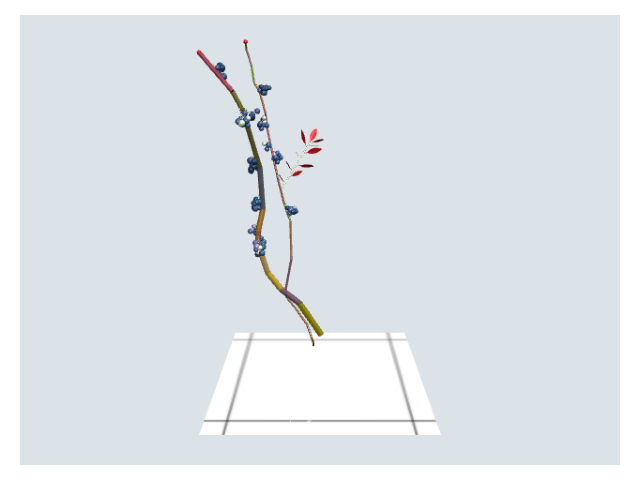
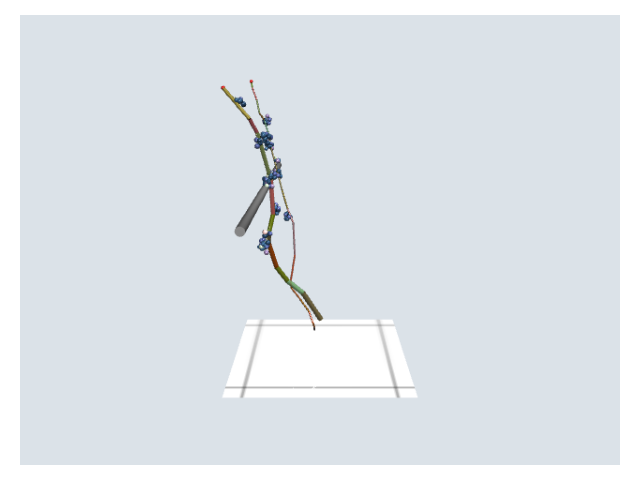
added a wire (and some friction for stability)

Changed region(s): [[0.3125, 0.0938, 0.6875, 0.9062]]

diff --git a/src/worldeditor.py b/src/worldeditor.py
@@ -1,0 +1,51 @@
+"""
+Functions to make edits to the environment, not the plant
+"""
+
+import mujoco
+import numpy as np
+import logging
+
+logger = logging.getLogger(__name__)
+
+def add_wire_at_height_and_depth(spec, height, depth, friction=0.5):
+    """
+    Add a wire at the specified height and depth in the environment.
+
+    Parameters:
+    - spec: The MuJoCo model specification to modify.
+    - height: The height at which to place the wire.
+    - depth: The depth at which to place the wire.
+    - friction: sliding friction coefficient of the wire. Must be > 0: the
+      cane geoms have zero friction, and a zero-friction contact under the
+      default pyramidal cone gives near-zero regularization (R ~ mu^2), which
+      makes the Newton solver produce NaN accelerations.
+
+    Assumptions:
+    - Wire is a cylinder that doesn't have any bends or curves.
+    - Wire is oriented parallel to y axis.
+    """
+    # Implementation for adding the wire goes here
+    logger.info(f"Adding wire at height {height} and depth {depth}")
+    world_body = None
+    for body in spec.bodies:
+        if body.name == "world":
+            world_body = body
+            break
+    if world_body is None:
+        raise ValueError("World body not found in the specification.")
+
+    wire_body = world_body.add_body(
+        name=f"wire_{height}_{depth}",
+        pos=[depth, 0, height]
+    )
+    wire_body.add_geom(
+        name=f"wire_geom_{height}_{depth}",
+        type=mujoco.mjtGeom.mjGEOM_CYLINDER,
+        size=[0.01, 0.5, 0],  # radius, half-length
+        pos=[0, 0, 0],
+        quat=[np.sqrt(0.5), np.sqrt(0.5), 0, 0],  # rotate 90 deg about x: cylinder z-axis -> world y-axis
+        # contact friction = max of the two geoms, so this overrides the canes' zero friction
+        friction=[friction, 0.005, 0.0001],
+    )
+    return spec

diff --git a/src/bushSim.py b/src/bushSim.py
@@ -42,6 +42,7 @@ import caneEditor
 import splineconverter
 from caneEditor import CaneEditor
 from caneSimulator import BranchSim, flip_segs_from_curve, get_midpoints
+import worldeditor
 
 def build_bush(editor, branch_origins_df, bush_num):
     B = BranchSim(bush_num, 1, editor=editor, xy=branch_origins_df[bush_num][1])
@@ -145,9 +146,13 @@ if __name__ == "__main__":
         logger.info(f"Building bush with average berry mass {avg_mass*1000:.2f} g")
         editor.BerryGen.change_berry_mass(avg_mass)  # example of changing the default berry mass before loading the config
         load_berry_config('bush_1_config.json')
-        editor.add_leaf_cluster_to_branch_at_height(height=0.45, branch_id="B1_B1", tilt=45.0, num_leaves=10)
-        editor.add_leaf_cluster_to_branch_at_height(height=0.6, branch_id="B1_B1", tilt=55.0, num_leaves=6)   
+        # editor.add_leaf_cluster_to_branch_at_height(height=0.45, branch_id="B1_B1", tilt=45.0, num_leaves=10)
+        # editor.add_leaf_cluster_to_branch_at_height(height=0.6, branch_id="B1_B1", tilt=55.0, num_leaves=6)   
+        # editor.add_leaf_cluster_to_branch_at_height(height=0.75, branch_id="B1_B1", tilt=40.0, num_leaves=8)
 
+        # spec is modified in place; recompile so editor.model includes the wire
+        worldeditor.add_wire_at_height_and_depth(editor.spec, height=0.5, depth=-0.15)
+        editor.model = editor.spec.compile()
         # editor.print_xml_to_console()
 
         model = editor.model
